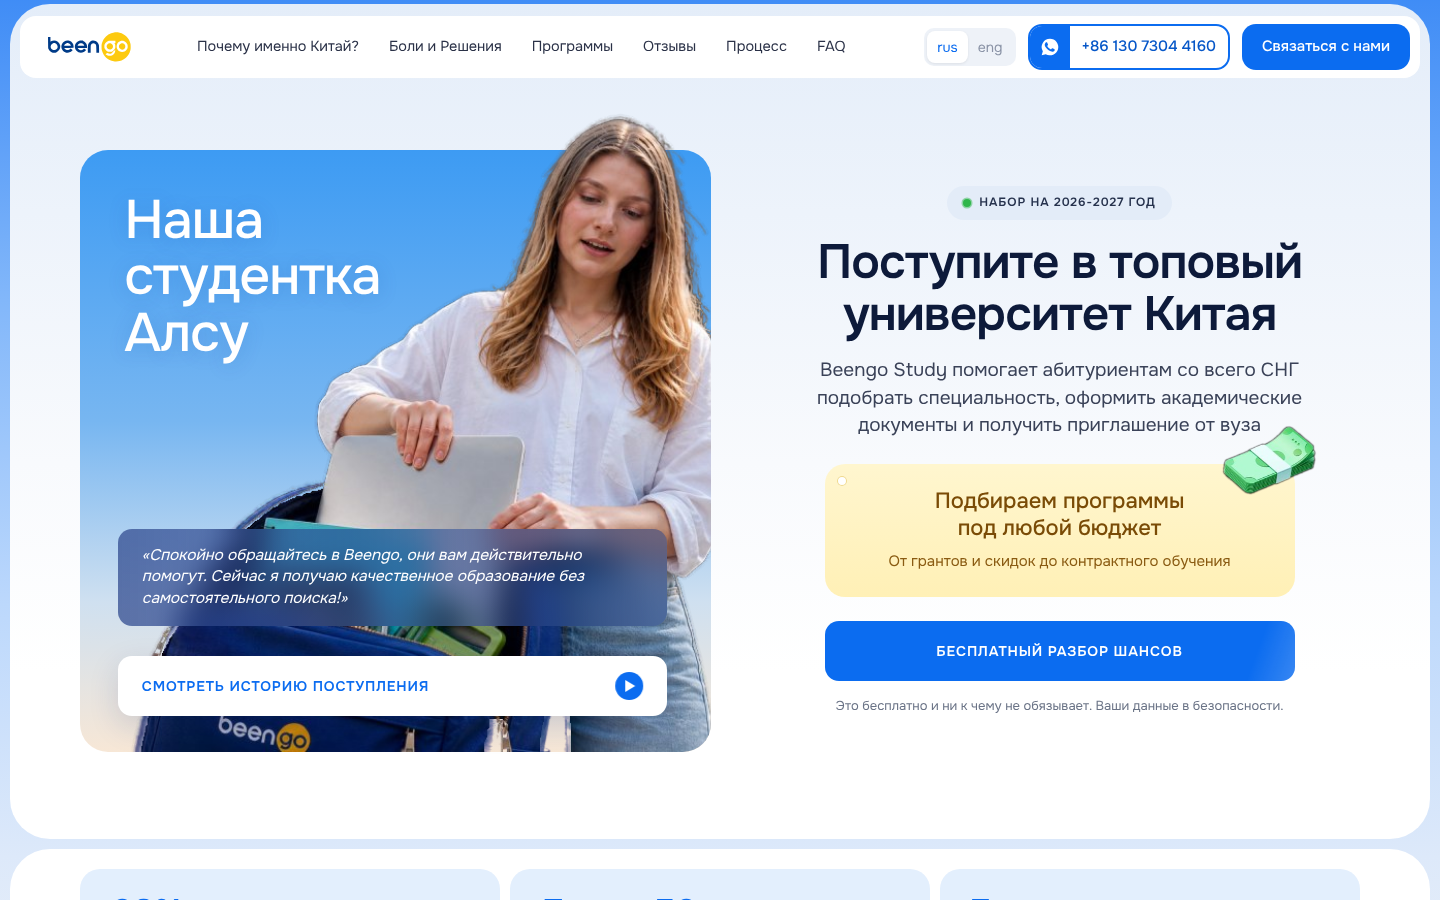
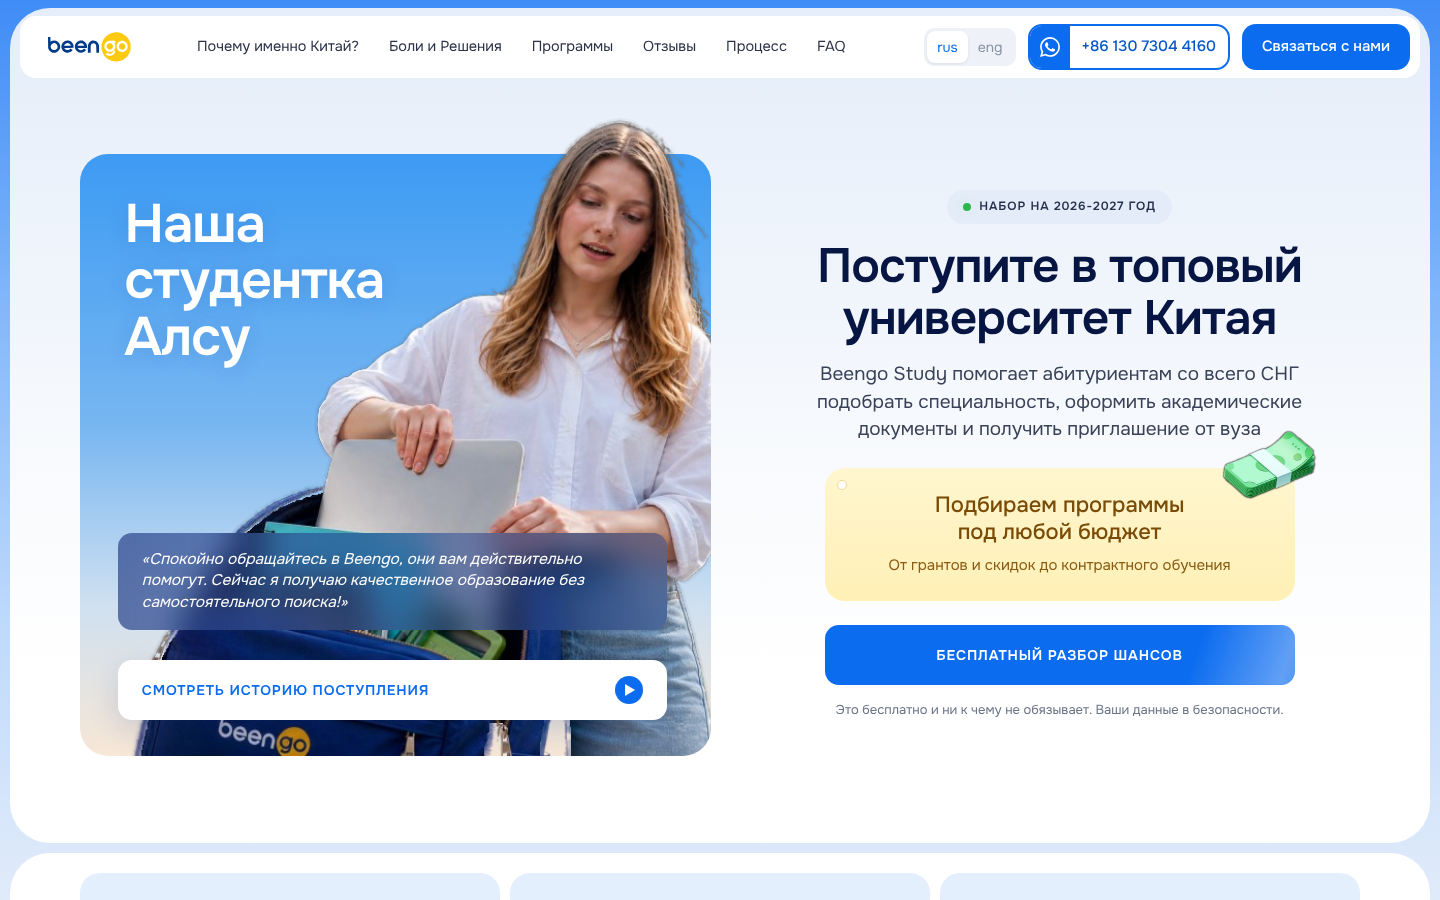
Darker navy headings
Claude-Session: https://claude.ai/code/session_01DveQThDXrjAqWsCdBVYsEN

diff --git a/index.html b/index.html
@@ -1365,12 +1365,12 @@ a,button,.dd-btn,.dd-opt{touch-action:manipulation}
 }
 
 /* ===== Заголовки: SemiBold, тёмно-синий ===== */
-:root{--navy:#0b2364}
+:root{--navy:#071542}
 .h2,section h2,.frame h2,.side h3,.story-top h3,.ab-text h2,.faq h2,.lead h2,.docs-top h2{font-weight:600!important}
-.h2,.why .h2,.pains .h2,.checklist .h2,.faq h2,.hero h1,.why-card h3,.side.bad h3,.story-top h3,.art h3,.q button,.prog-head + .prog-body .lbl,.fcard h3,.dl-title{color:#0b2364}
-.hero h1{color:#0b2364}
-.checklist .h2,.faq h2{color:#0b2364!important}
-.stories-wrap .h2{color:#0b2364}
+.h2,.why .h2,.pains .h2,.checklist .h2,.faq h2,.hero h1,.why-card h3,.side.bad h3,.story-top h3,.art h3,.q button,.prog-head + .prog-body .lbl,.fcard h3,.dl-title{color:#071542}
+.hero h1{color:#071542}
+.checklist .h2,.faq h2{color:#071542!important}
+.stories-wrap .h2{color:#071542}
 
 /* ===== Футер: без линии между фреймами, адрес и график в столбик, крупный заголовок ===== */
 .fcols > div:nth-child(3),.fcols > div:last-child{border-top:0!important}
